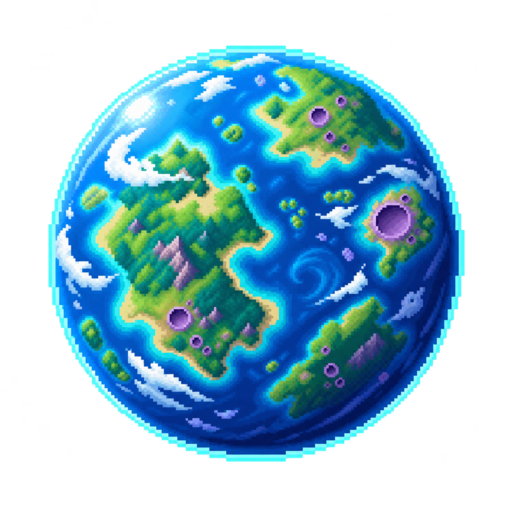
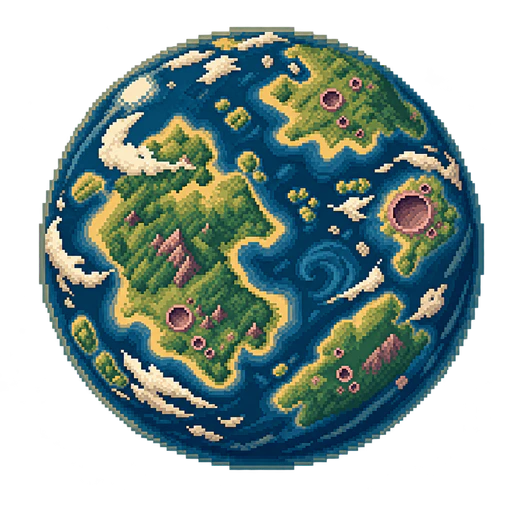
Finalize Cloudflare cutover and site polish

diff --git a/src/app/styles/global.css b/src/app/styles/global.css
@@ -12,8 +12,7 @@
   --spacecraft-size: 60px;
   --planet-size: 108px;
   --planet-right: clamp(72px, 8vw, 120px);
-  --orbit-x: 130px;
-  --orbit-y: 48px;
+  --orbit-radius: 92px;
   --background: #fff;
   --text: #232333;
   --accent: #c00;
@@ -241,7 +240,7 @@ td {
   left: 0;
   z-index: 0;
   width: var(--spacecraft-size);
-  offset-path: ellipse(var(--orbit-x) var(--orbit-y) at 50% 50%);
+  offset-path: circle(var(--orbit-radius) at 50% 50%);
   offset-anchor: 50% 50%;
   offset-rotate: auto 180deg;
   scale: 0.82;
@@ -459,6 +458,10 @@ td {
 }
 
 @media (max-width: 1180px) {
+  .space-scene {
+    display: none;
+  }
+
   .home-grid {
     grid-template-columns: minmax(230px, 0.72fr) minmax(0, 1.45fr);
   }
@@ -518,14 +521,6 @@ td {
 }
 
 @media (max-width: 520px) {
-  :root {
-    --spacecraft-size: 48px;
-    --planet-size: 86px;
-    --planet-right: 70px;
-    --orbit-x: 96px;
-    --orbit-y: 38px;
-  }
-
   body {
     padding-inline: var(--page-gutter);
   }
@@ -552,10 +547,6 @@ td {
   .post-list--home li {
     grid-template-columns: 1fr;
     gap: 0.1rem;
-  }
-
-  .space-scene {
-    bottom: 24px;
   }
 }
 
